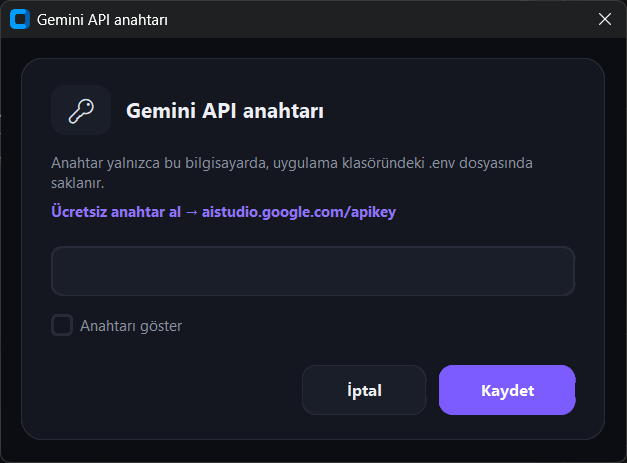
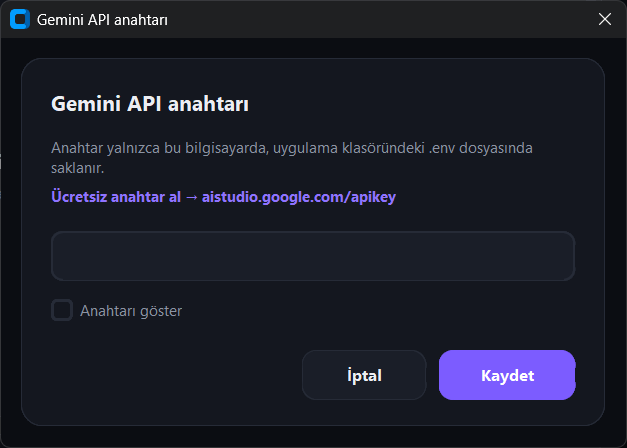
Arayüzden emoji simgeleri kaldırıldı

diff --git a/app/gui.py b/app/gui.py
@@ -158,7 +158,7 @@ class App:
                      height=26).pack(anchor="w")
         ctk.CTkLabel(titles, text="İngilizce ↔ Türkçe canlı sesli çeviri", font=font(12),
                      text_color=C["muted"], height=18).pack(anchor="w")
-        self.key_btn = self._button(header, "🔑  API anahtarı", self.ask_api_key, kind="ghost",
+        self.key_btn = self._button(header, "API anahtarı", self.ask_api_key, kind="ghost",
                                     height=36, font=font(12), width=140)
         self.key_btn.pack(side="right")
 
@@ -197,11 +197,11 @@ class App:
     def _build_controls(self, box: ctk.CTkFrame) -> None:
         box.columnconfigure((0, 1), weight=1, uniform="dev")
 
-        def device_picker(col: int, title: str, icon: str) -> tuple[ctk.StringVar, ctk.CTkOptionMenu]:
+        def device_picker(col: int, title: str) -> tuple[ctk.StringVar, ctk.CTkOptionMenu]:
             cell = ctk.CTkFrame(box, fg_color="transparent")
             cell.grid(row=0, column=col, sticky="ew", padx=(18 if col == 0 else 8, 18 if col else 8),
                       pady=(16, 0))
-            ctk.CTkLabel(cell, text=f"{icon}  {title}", font=font(11, "bold"),
+            ctk.CTkLabel(cell, text=title, font=font(11, "bold"),
                          text_color=C["muted"], height=18).pack(anchor="w")
             var = ctk.StringVar()
             menu = ctk.CTkOptionMenu(
@@ -214,8 +214,8 @@ class App:
             menu.pack(fill="x", pady=(6, 0))
             return var, menu
 
-        self.mic_var, self.mic_box = device_picker(0, "Mikrofon", "🎙")
-        self.out_var, self.out_box = device_picker(1, "Hoparlör", "🔊")
+        self.mic_var, self.mic_box = device_picker(0, "Mikrofon")
+        self.out_var, self.out_box = device_picker(1, "Hoparlör")
 
         row = ctk.CTkFrame(box, fg_color="transparent")
         row.grid(row=1, column=0, columnspan=2, sticky="ew", padx=18, pady=16)
@@ -276,10 +276,9 @@ class App:
             child.destroy()
         self.cards = {}
         self.placeholder = ctk.CTkFrame(self.feed, fg_color="transparent")
-        self.placeholder.grid(row=0, column=0, pady=(110, 0))
-        ctk.CTkLabel(self.placeholder, text="🎙", font=font(40), text_color=C["faint"]).pack()
+        self.placeholder.grid(row=0, column=0, pady=(150, 0))
         ctk.CTkLabel(self.placeholder, text="Çeviriler burada görünecek", font=font(16, "bold"),
-                     text_color=C["text"]).pack(pady=(8, 2))
+                     text_color=C["text"]).pack(pady=(0, 4))
         ctk.CTkLabel(
             self.placeholder,
             text="İngilizce konuşursan Türkçe, Türkçe konuşursan İngilizce duyarsın.\n"
@@ -475,10 +474,8 @@ class App:
 
         top = ctk.CTkFrame(inner, fg_color="transparent")
         top.pack(fill="x")
-        ctk.CTkLabel(top, text="🔑", width=40, height=40, corner_radius=12, fg_color=C["card_alt"],
-                     font=font(18)).pack(side="left")
         ctk.CTkLabel(top, text="Gemini API anahtarı", font=font(17, "bold"),
-                     text_color=C["text"]).pack(side="left", padx=(12, 0))
+                     text_color=C["text"]).pack(side="left")
 
         ctk.CTkLabel(
             inner,
